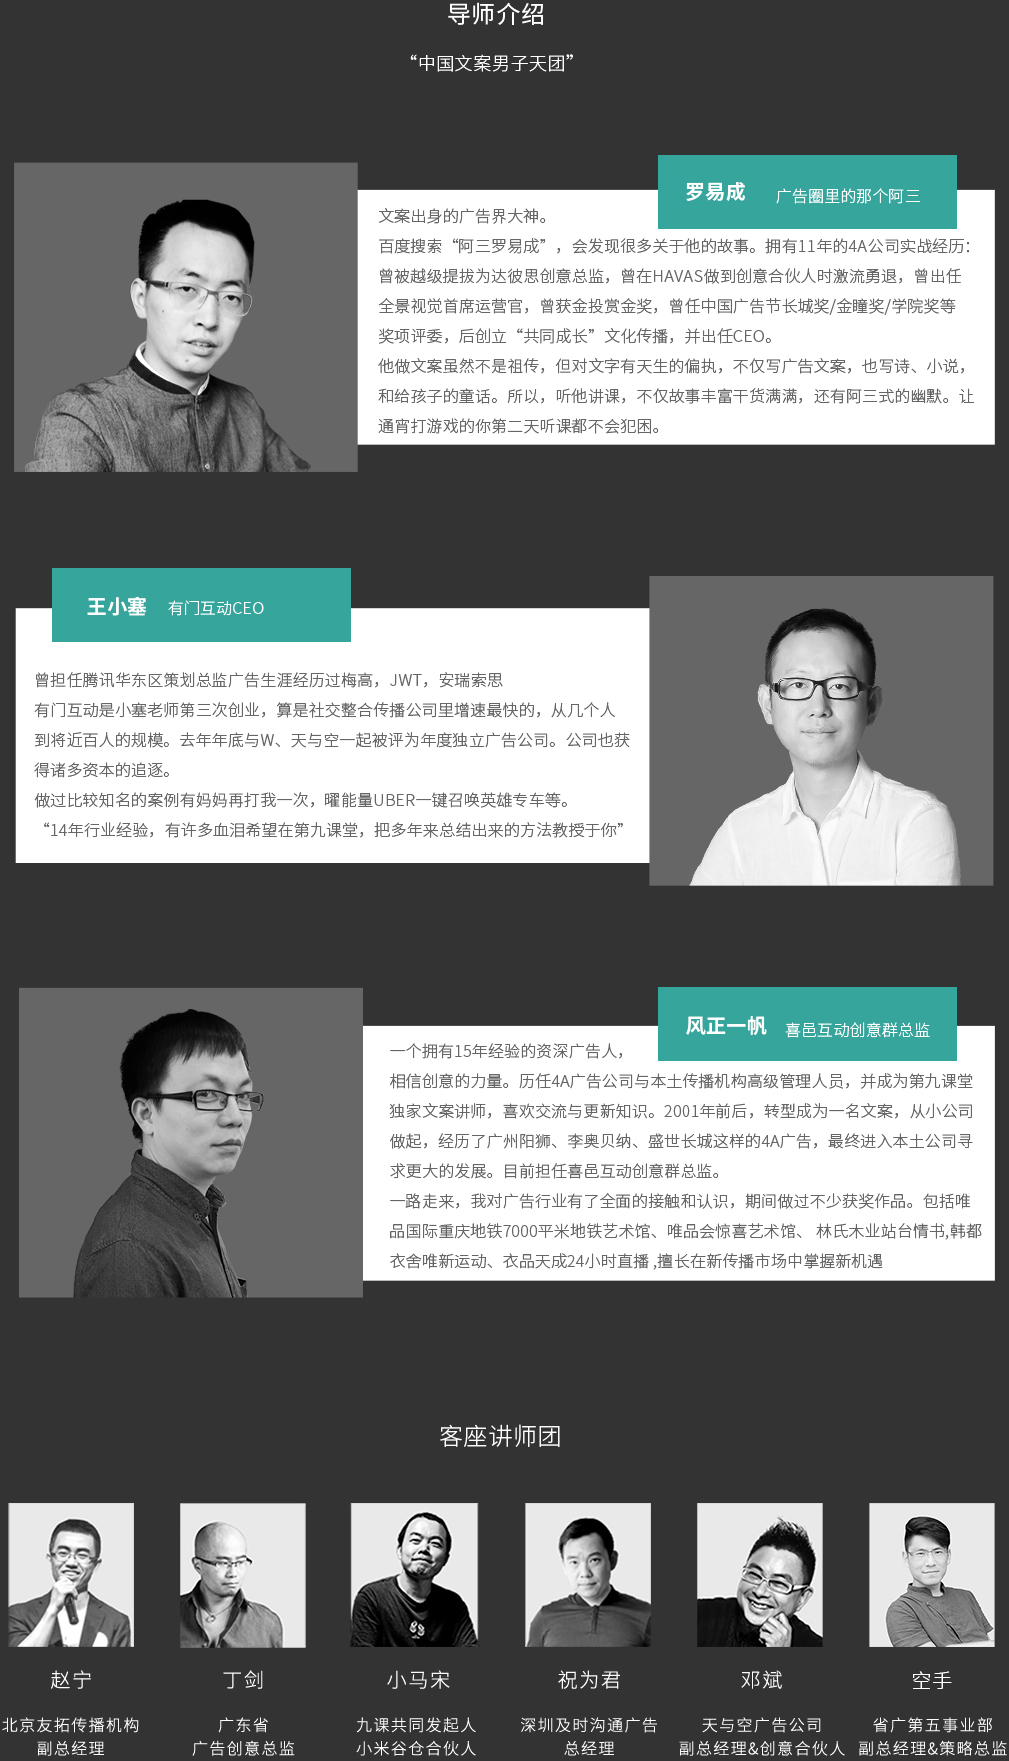
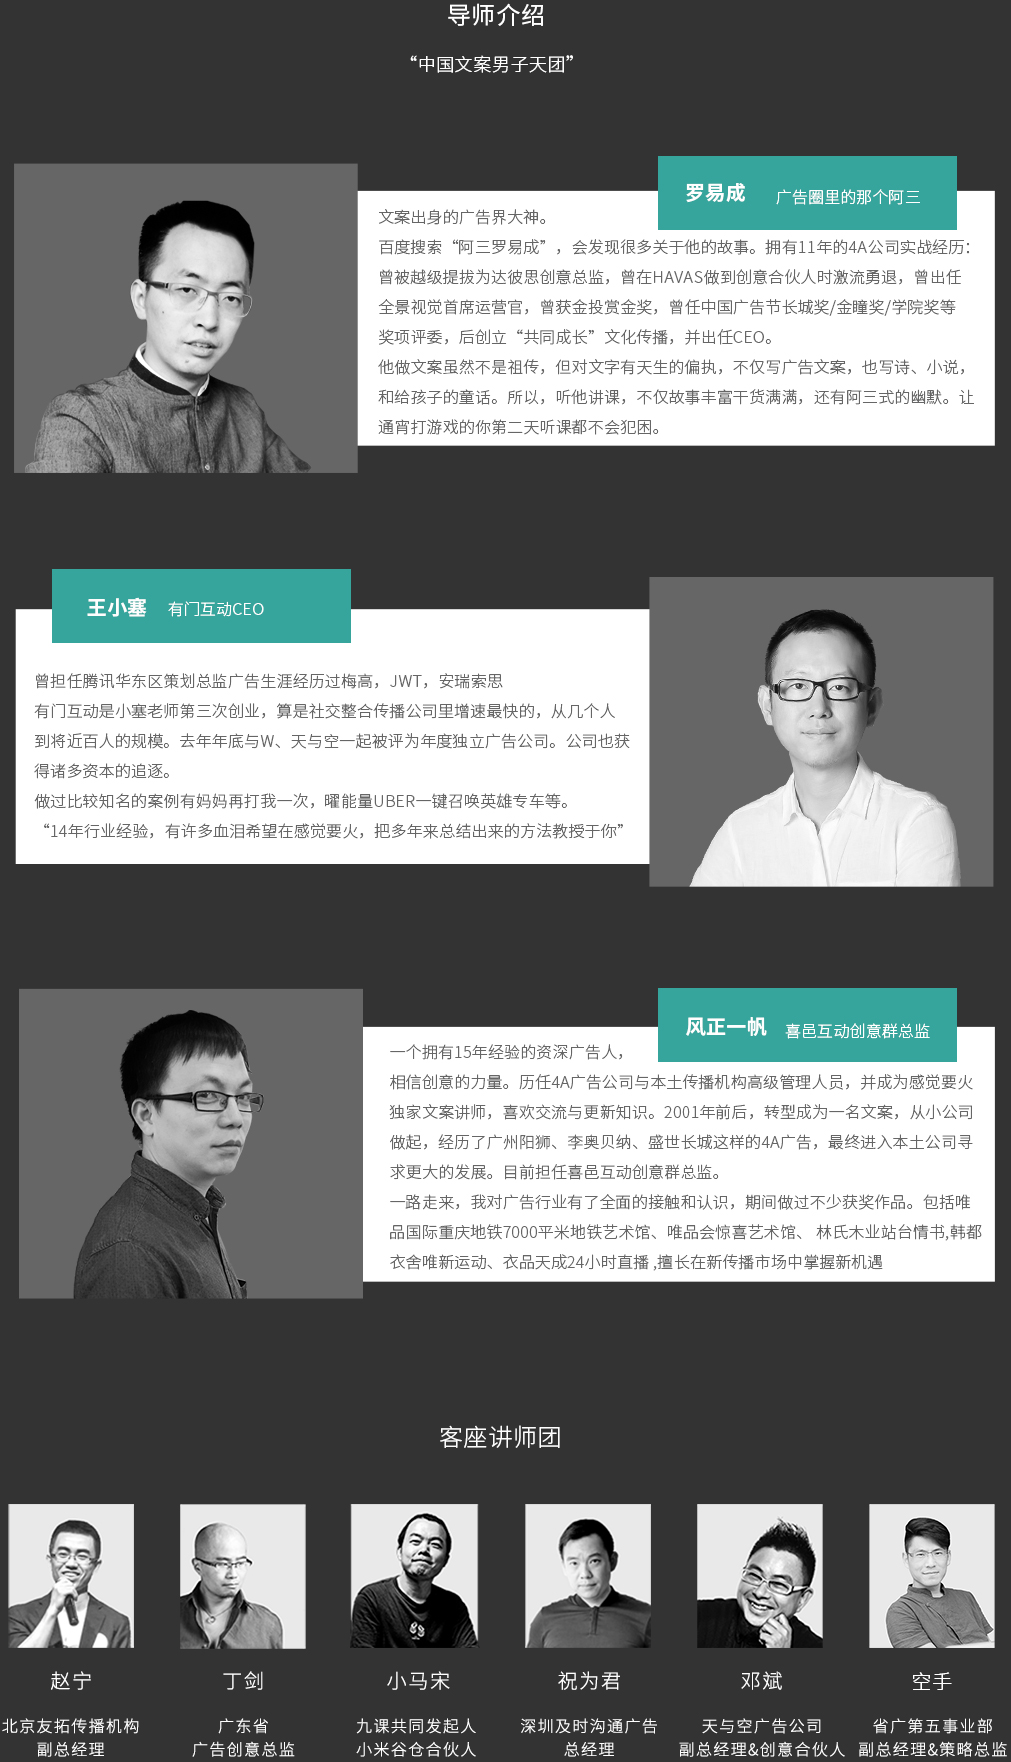
2017-06-07

diff --git a/frontendIII/public/course-2.html b/frontendIII/public/course-2.html
@@ -1,10 +1,11 @@
 <!DOCTYPE html>
 <html>
 <head>
-    <title>第九课堂 - 互联网营销人才培养</title>
+    <title>感觉要火 - 互联网营销人才培养</title>
     <meta name="description" content="关于互联网时代如何玩营销最系统实战的课程。文案，品牌，运营，搞事情，新媒体，洞察，小马宋等大咖课程">
     <meta name="viewport" content="width=device-width,minimum-scale=1.0,maximum-scale=1.0,user-scalable=no,minimal-ui">
     <meta name="format-detection" content="telephone=no" />
+    <link rel="shortcut icon" type="image/x-icon" href="favicon.ico" />
     <link rel="stylesheet" href="./css/base.css">
     <link rel="stylesheet" href="./css/course.css">
     <script src="./js/common.js"></script>
@@ -56,7 +57,7 @@
     <div class="header">
         <div class="header-main">
             <div class="slogan">
-                <img src="./svg/logo.svg" alt="第九课堂" class="logo">
+                <img src="./svg/logo.svg" alt="感觉要火" class="logo">
                 专注互联网营销人才培养
             </div>
             <a href="javascript:void(0);" class="btn btn-show-navs">点我</a>
@@ -107,9 +108,9 @@
                     <div class="item-detail-title">报名方式</div>
                     <p>
                         <b>采取访谈审核制招生</b><br>
-                        学员在支付学费后，会在24小时内接到九课正式访谈电话。<br>
+                        学员在支付学费后，会在24小时内接到正式访谈电话。<br>
                         通过审核学员，由于个人原因不能按时参课，名额可延期一次，两次延期名额作废。<br>
-                        审核未通过学员，九课会在三个工作日内退还全款。<br>
+                        审核未通过学员，会在三个工作日内退还全款。<br>
                         访谈形式：电话沟通10个左右问题。<br>
                         访谈目标：判断学员需求（不是资质，我们认为所有人都有足够的天资）是否和课程匹配。<br>
                         *关于审核问题可以咨询大队长。

diff --git a/frontendIII/public/course-3.html b/frontendIII/public/course-3.html
@@ -1,10 +1,11 @@
 <!DOCTYPE html>
 <html>
 <head>
-    <title>第九课堂 - 互联网营销人才培养</title>
+    <title>感觉要火 - 互联网营销人才培养</title>
     <meta name="description" content="关于互联网时代如何玩营销最系统实战的课程。文案，品牌，运营，搞事情，新媒体，洞察，小马宋等大咖课程">
     <meta name="viewport" content="width=device-width,minimum-scale=1.0,maximum-scale=1.0,user-scalable=no,minimal-ui">
     <meta name="format-detection" content="telephone=no" />
+    <link rel="shortcut icon" type="image/x-icon" href="favicon.ico" />
     <link rel="stylesheet" href="./css/base.css">
     <link rel="stylesheet" href="./css/course.css">
     <script src="./js/common.js"></script>
@@ -94,7 +95,7 @@
     <div class="header">
         <div class="header-main">
             <div class="slogan">
-                <img src="./svg/logo.svg" alt="第九课堂" class="logo">
+                <img src="./svg/logo.svg" alt="感觉要火" class="logo">
                 专注互联网营销人才培养
             </div>
             <a href="javascript:void(0);" class="btn btn-show-navs">点我</a>
@@ -146,9 +147,9 @@
                     <div class="item-detail-title">报名方式</div>
                     <p>
                         <b>采取访谈审核制招生</b><br>
-                        学员在支付学费后，会在24小时内接到九课正式访谈电话。<br>
+                        学员在支付学费后，会在24小时内接到正式访谈电话。<br>
                         通过审核学员，由于个人原因不能按时参课，名额可延期一次，两次延期名额作废。<br>
-                        审核未通过学员，九课会在三个工作日内退还全款。<br>
+                        审核未通过学员，会在三个工作日内退还全款。<br>
                         访谈形式：电话沟通10个左右问题。<br>
                         访谈目标：判断学员需求（不是资质，我们认为所有人都有足够的天资）是否和课程匹配。<br>
                         *关于审核问题可以咨询大队长。

diff --git a/frontendIII/public/course-1.html b/frontendIII/public/course-1.html
@@ -1,10 +1,11 @@
 <!DOCTYPE html>
 <html>
 <head>
-    <title>第九课堂 - 互联网营销人才培养</title>
+    <title>感觉要火 - 互联网营销人才培养</title>
     <meta name="description" content="关于互联网时代如何玩营销最系统实战的课程。文案，品牌，运营，搞事情，新媒体，洞察，小马宋等大咖课程">
     <meta name="viewport" content="width=device-width,minimum-scale=1.0,maximum-scale=1.0,user-scalable=no,minimal-ui">
     <meta name="format-detection" content="telephone=no" />
+    <link rel="shortcut icon" type="image/x-icon" href="favicon.ico" />
     <link rel="stylesheet" href="./css/base.css">
     <link rel="stylesheet" href="./css/course.css">
     <script src="./js/common.js"></script>
@@ -13,7 +14,7 @@
     <div class="header">
         <div class="header-main">
             <div class="slogan">
-                <img src="./svg/logo.svg" alt="第九课堂" class="logo">
+                <img src="./svg/logo.svg" alt="感觉要火" class="logo">
                 专注互联网营销人才培养
             </div>
             <a href="javascript:void(0);" class="btn btn-show-navs">点我</a>
@@ -64,9 +65,9 @@
                     <div class="item-detail-title">报名方式</div>
                     <p>
                         <b>采取访谈审核制招生</b><br>
-                        学员在支付学费后，会在24小时内接到九课正式访谈电话。<br>
+                        学员在支付学费后，会在24小时内接到正式访谈电话。<br>
                         通过审核学员，由于个人原因不能按时参课，名额可延期一次，两次延期名额作废。<br>
-                        审核未通过学员，九课会在三个工作日内退还全款。<br>
+                        审核未通过学员，会在三个工作日内退还全款。<br>
                         访谈形式：电话沟通10个左右问题。<br>
                         访谈目标：判断学员需求（不是资质，我们认为所有人都有足够的天资）是否和课程匹配。<br>
                         *关于审核问题可以咨询大队长。

diff --git a/frontendIII/public/home.html b/frontendIII/public/home.html
@@ -1,11 +1,12 @@
 <!DOCTYPE html>
 <html>
 <head>
-    <title>第九课堂 - 互联网营销人才培养</title>
+    <title>感觉要火 - 互联网营销人才培养</title>
     <meta name="description" content="关于互联网时代如何玩营销最系统实战的课程。文案，品牌，运营，搞事情，新媒体，洞察，小马宋等大咖课程">
     <meta charset="utf-8">
     <meta name="viewport" content="width=device-width,minimum-scale=1.0,maximum-scale=1.0,user-scalable=no,minimal-ui">
     <meta name="format-detection" content="telephone=no" />
+    <link rel="shortcut icon" type="image/x-icon" href="favicon.ico" />
     <link rel="stylesheet" href="./css/base.css">
     <link rel="stylesheet" href="./css/home.css">
     <script src="./js/common.js"></script>
@@ -14,7 +15,7 @@
     <div class="header">
         <div class="header-main">
             <div class="slogan">
-                <img src="./svg/logo.svg" alt="第九课堂" class="logo">
+                <img src="./svg/logo.svg" alt="感觉要火" class="logo">
                 专注互联网营销人才培养
             </div>
             <a href="javascript:void(0);" class="btn btn-show-navs">点我</a>
@@ -56,7 +57,7 @@
                         <div class="course-detail">
                             写出好文案，<br>
                             到底是拼天赋，努力还是运气？<br>
-                            三年来九课追踪了几十大咖<br>
+                            三年来感觉要火追踪了几十大咖<br>
                             和学员后，结论也渐渐清晰。
                         </div>
                     </div>

diff --git a/frontendIII/public/marry.html b/frontendIII/public/marry.html
@@ -1,11 +1,12 @@
 <!DOCTYPE html>
 <html>
 <head>
-    <title>第九课堂 - 互联网营销人才培养</title>
+    <title>感觉要火 - 互联网营销人才培养</title>
     <meta name="description" content="关于互联网时代如何玩营销最系统实战的课程。文案，品牌，运营，搞事情，新媒体，洞察，小马宋等大咖课程">
     <meta charset="utf-8">
     <meta name="viewport" content="width=device-width,minimum-scale=1.0,maximum-scale=1.0,user-scalable=no,minimal-ui">
     <meta name="format-detection" content="telephone=no" />
+    <link rel="shortcut icon" type="image/x-icon" href="favicon.ico" />
     <link rel="stylesheet" href="./css/base.css">
     <link rel="stylesheet" href="./css/marry.css">
     <script src="./js/common.js"></script>
@@ -14,7 +15,7 @@
     <div class="header">
         <div class="header-main">
             <div class="slogan">
-                <img src="./svg/logo.svg" alt="第九课堂" class="logo">
+                <img src="./svg/logo.svg" alt="感觉要火" class="logo">
                 专注互联网营销人才培养
             </div>
             <a href="javascript:void(0);" class="btn btn-show-navs">点我</a>
@@ -69,7 +70,7 @@
             原第九课堂创始人<br>
             如果你对于营销教育行业有所了解<br>
             你可能会知道小马宋，黄有璨这些行业大V<br>
-            是的，他们都是九课有过的牛人<br>
+            是的，他们都是感觉要火有过的牛人<br>
             <br>
 
             我们给你什么？<br>

diff --git a/frontendIII/public/pay-success.html b/frontendIII/public/pay-success.html
@@ -1,11 +1,12 @@
 <!DOCTYPE html>
 <html>
 <head>
-    <title>第九课堂 - 互联网营销人才培养</title>
+    <title>感觉要火 - 互联网营销人才培养</title>
     <meta name="description" content="关于互联网时代如何玩营销最系统实战的课程。文案，品牌，运营，搞事情，新媒体，洞察，小马宋等大咖课程">
     <meta charset="utf-8">
     <meta name="viewport" content="width=device-width,minimum-scale=1.0,maximum-scale=1.0,user-scalable=no,minimal-ui">
     <meta name="format-detection" content="telephone=no" />
+    <link rel="shortcut icon" type="image/x-icon" href="favicon.ico" />
     <link rel="stylesheet" href="./css/base.css">
     <link rel="stylesheet" href="./css/course.css">
     <script src="./js/common.js"></script>
@@ -70,7 +71,7 @@
     <div class="header">
         <div class="header-main">
             <div class="slogan">
-                <img src="./svg/logo.svg" alt="第九课堂" class="logo">
+                <img src="./svg/logo.svg" alt="感觉要火" class="logo">
                 专注互联网营销人才培养
             </div>
             <a href="javascript:void(0);" class="btn btn-show-navs">点我</a>

diff --git a/frontendIII/public/train.html b/frontendIII/public/train.html
@@ -1,11 +1,12 @@
 <!DOCTYPE html>
 <html>
 <head>
-    <title>第九课堂 - 互联网营销人才培养</title>
+    <title>感觉要火 - 互联网营销人才培养</title>
     <meta name="description" content="关于互联网时代如何玩营销最系统实战的课程。文案，品牌，运营，搞事情，新媒体，洞察，小马宋等大咖课程">
     <meta charset="utf-8">
     <meta name="viewport" content="width=device-width,minimum-scale=1.0,maximum-scale=1.0,user-scalable=no,minimal-ui">
     <meta name="format-detection" content="telephone=no" />
+    <link rel="shortcut icon" type="image/x-icon" href="favicon.ico" />
     <link rel="stylesheet" href="./css/base.css">
     <link rel="stylesheet" href="./css/course.css">
     <script src="./js/common.js"></script>
@@ -47,7 +48,7 @@
     <div class="header">
         <div class="header-main">
             <div class="slogan">
-                <img src="./svg/logo.svg" alt="第九课堂" class="logo">
+                <img src="./svg/logo.svg" alt="感觉要火" class="logo">
                 专注互联网营销人才培养
             </div>
             <a href="javascript:void(0);" class="btn btn-show-navs">点我</a>

diff --git a/frontendIII/public/pay.html b/frontendIII/public/pay.html
@@ -1,11 +1,12 @@
 <!DOCTYPE html>
 <html>
 <head>
-    <title>第九课堂 - 互联网营销人才培养</title>
+    <title>感觉要火 - 互联网营销人才培养</title>
     <meta name="description" content="关于互联网时代如何玩营销最系统实战的课程。文案，品牌，运营，搞事情，新媒体，洞察，小马宋等大咖课程">
     <meta charset="utf-8">
     <meta name="viewport" content="width=device-width,minimum-scale=1.0,maximum-scale=1.0,user-scalable=no,minimal-ui">
     <meta name="format-detection" content="telephone=no" />
+    <link rel="shortcut icon" type="image/x-icon" href="favicon.ico" />
     <link rel="stylesheet" href="./css/base.css">
     <link rel="stylesheet" href="./css/pay.css">
     <script src="./js/common.js"></script>
@@ -14,7 +15,7 @@
     <div class="header">
         <div class="header-main">
             <div class="slogan">
-                <img src="./svg/logo.svg" alt="第九课堂" class="logo">
+                <img src="./svg/logo.svg" alt="感觉要火" class="logo">
                 专注互联网营销人才培养
             </div>
             <a href="javascript:void(0);" class="btn btn-show-navs">点我</a>

diff --git a/frontendIII/public/template.html b/frontendIII/public/template.html
@@ -1,10 +1,11 @@
 <!DOCTYPE html>
 <html>
 <head>
-    <title>第九课堂</title>
+    <title>感觉要火</title>
     <meta charset="utf-8">
     <meta name="viewport" content="width=device-width,minimum-scale=1.0,maximum-scale=1.0,user-scalable=no,minimal-ui">
     <meta name="format-detection" content="telephone=no" />
+    <link rel="shortcut icon" type="image/x-icon" href="favicon.ico" />
     <link rel="stylesheet" href="./css/base.css">
     <link rel="stylesheet" href="./css/course.css">
     <script src="./js/common.js"></script>
@@ -13,7 +14,7 @@
     <div class="header">
         <div class="header-main">
             <div class="slogan">
-                <img src="./svg/logo.svg" alt="第九课堂" class="logo">
+                <img src="./svg/logo.svg" alt="感觉要火" class="logo">
                 专注互联网营销人才培养
             </div>
             <a href="javascript:void(0);" class="btn btn-show-navs">点我</a>

diff --git a/frontendIII/public/js/header.js b/frontendIII/public/js/header.js
@@ -27,7 +27,11 @@ $('body').on('ready', function () {
         var omit = ['train.html', 'pay-success.html', 'home.html', 'marry.html', 'pay.html', '/enter'];
         var ret = false;
         for (var i = 0; i < omit.length; i++) {
-            if (window.location.pathname.indexOf(omit[i]) > -1) {
+            if (
+                window.location.pathname.indexOf(omit[i]) > -1
+                || window.location.pathname === '/'
+                || window.location.pathname === ''
+            ) {
                 ret = true;
                 break;
             }

diff --git a/frontendIII/public/css/base.css b/frontendIII/public/css/base.css
@@ -182,12 +182,12 @@ a {
 .header .slogan {
     float: left;
     margin-left: 0.35rem;
-    font-size: 0.3rem;
+    font-size: 0.2rem;
 }
 
 .header .slogan img {
     vertical-align: middle;
-    width: 1.5rem;
+    width: 2rem;
     margin-right: 0.1rem;
     position: relative;
     top: -0.04rem;
@@ -253,9 +253,10 @@ a {
     }
 
     .header .slogan img {
-        width: 1.4rem;
+        /*width: 1.4rem;*/
+        width: 2.6rem;
         position: relative;
-        top: -5px;
+        /*top: -5px;*/
     }
 
     .header .btn {
